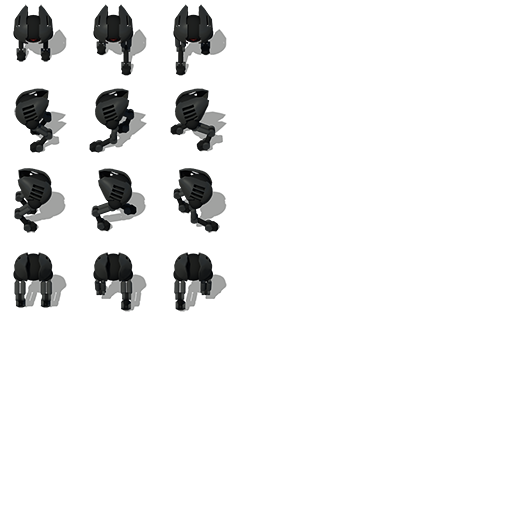
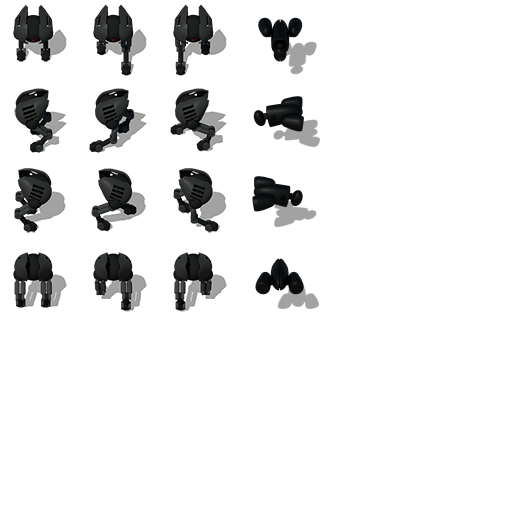
Dodaję animacje latających przeciwników + nowe ikonki.

diff --git a/towerdef/src/pl/czyzycki/towerdef/gameplay/entities/Enemy.java b/towerdef/src/pl/czyzycki/towerdef/gameplay/entities/Enemy.java
@@ -26,6 +26,10 @@ public class Enemy {
 	public static Animation rightWalkingAnimation;
 	public static Animation downWalkingAnimation;
 	public static Animation upWalkingAnimation;
+	public static Animation leftFlyingAnimation;
+	public static Animation rightFlyingAnimation;
+	public static Animation downFlyingAnimation;
+	public static Animation upFlyingAnimation;
 	
 	int sideWalking = 0; // 0=left, 1=right, 2=down else up
 	
@@ -84,6 +88,22 @@ public class Enemy {
 		downWalkFrames[3] = tmp[3][2];
 		
 		downWalkingAnimation = new Animation(animSpeed, downWalkFrames);
+		
+		TextureRegion[] upFlyFrames = new TextureRegion[1];
+		upFlyFrames[0] = tmp[0][3];
+		upFlyingAnimation = new Animation(animSpeed, upFlyFrames);
+		
+		TextureRegion[] leftFlyFrames = new TextureRegion[1];
+		leftFlyFrames[0] = tmp[1][3];
+		leftFlyingAnimation = new Animation(animSpeed, leftFlyFrames);
+		
+		TextureRegion[] rightFlyFrames = new TextureRegion[1];
+		rightFlyFrames[0] = tmp[2][3];
+		rightFlyingAnimation = new Animation(animSpeed, rightFlyFrames);
+		
+		TextureRegion[] downFlyFrames = new TextureRegion[1];
+		downFlyFrames[0] = tmp[3][3];
+		downFlyingAnimation = new Animation(animSpeed, downFlyFrames);
 	}
 	
 	public Enemy(Enemy enemy, float timer) {
@@ -171,10 +191,10 @@ public class Enemy {
 	}
 	
 	public void draw(SpriteBatch batch) {
-		Animation anim = upWalkingAnimation;
-		if(sideWalking == 0) anim = leftWalkingAnimation;
-		else if(sideWalking == 1) anim = rightWalkingAnimation;
-		else if(sideWalking == 2) anim = downWalkingAnimation;
+		Animation anim = flying ? upFlyingAnimation : upWalkingAnimation;
+		if(sideWalking == 0) anim = flying ? leftFlyingAnimation : leftWalkingAnimation;
+		else if(sideWalking == 1) anim = flying ? rightFlyingAnimation : rightWalkingAnimation;
+		else if(sideWalking == 2) anim = flying ? downFlyingAnimation : downWalkingAnimation;
 		
 		TextureRegion currentFrame = anim.getKeyFrame(time, true);
 		batch.draw(currentFrame, pos.x-currentFrame.getRegionWidth()/2.0f, pos.y-currentFrame.getRegionHeight()/2.0f);
